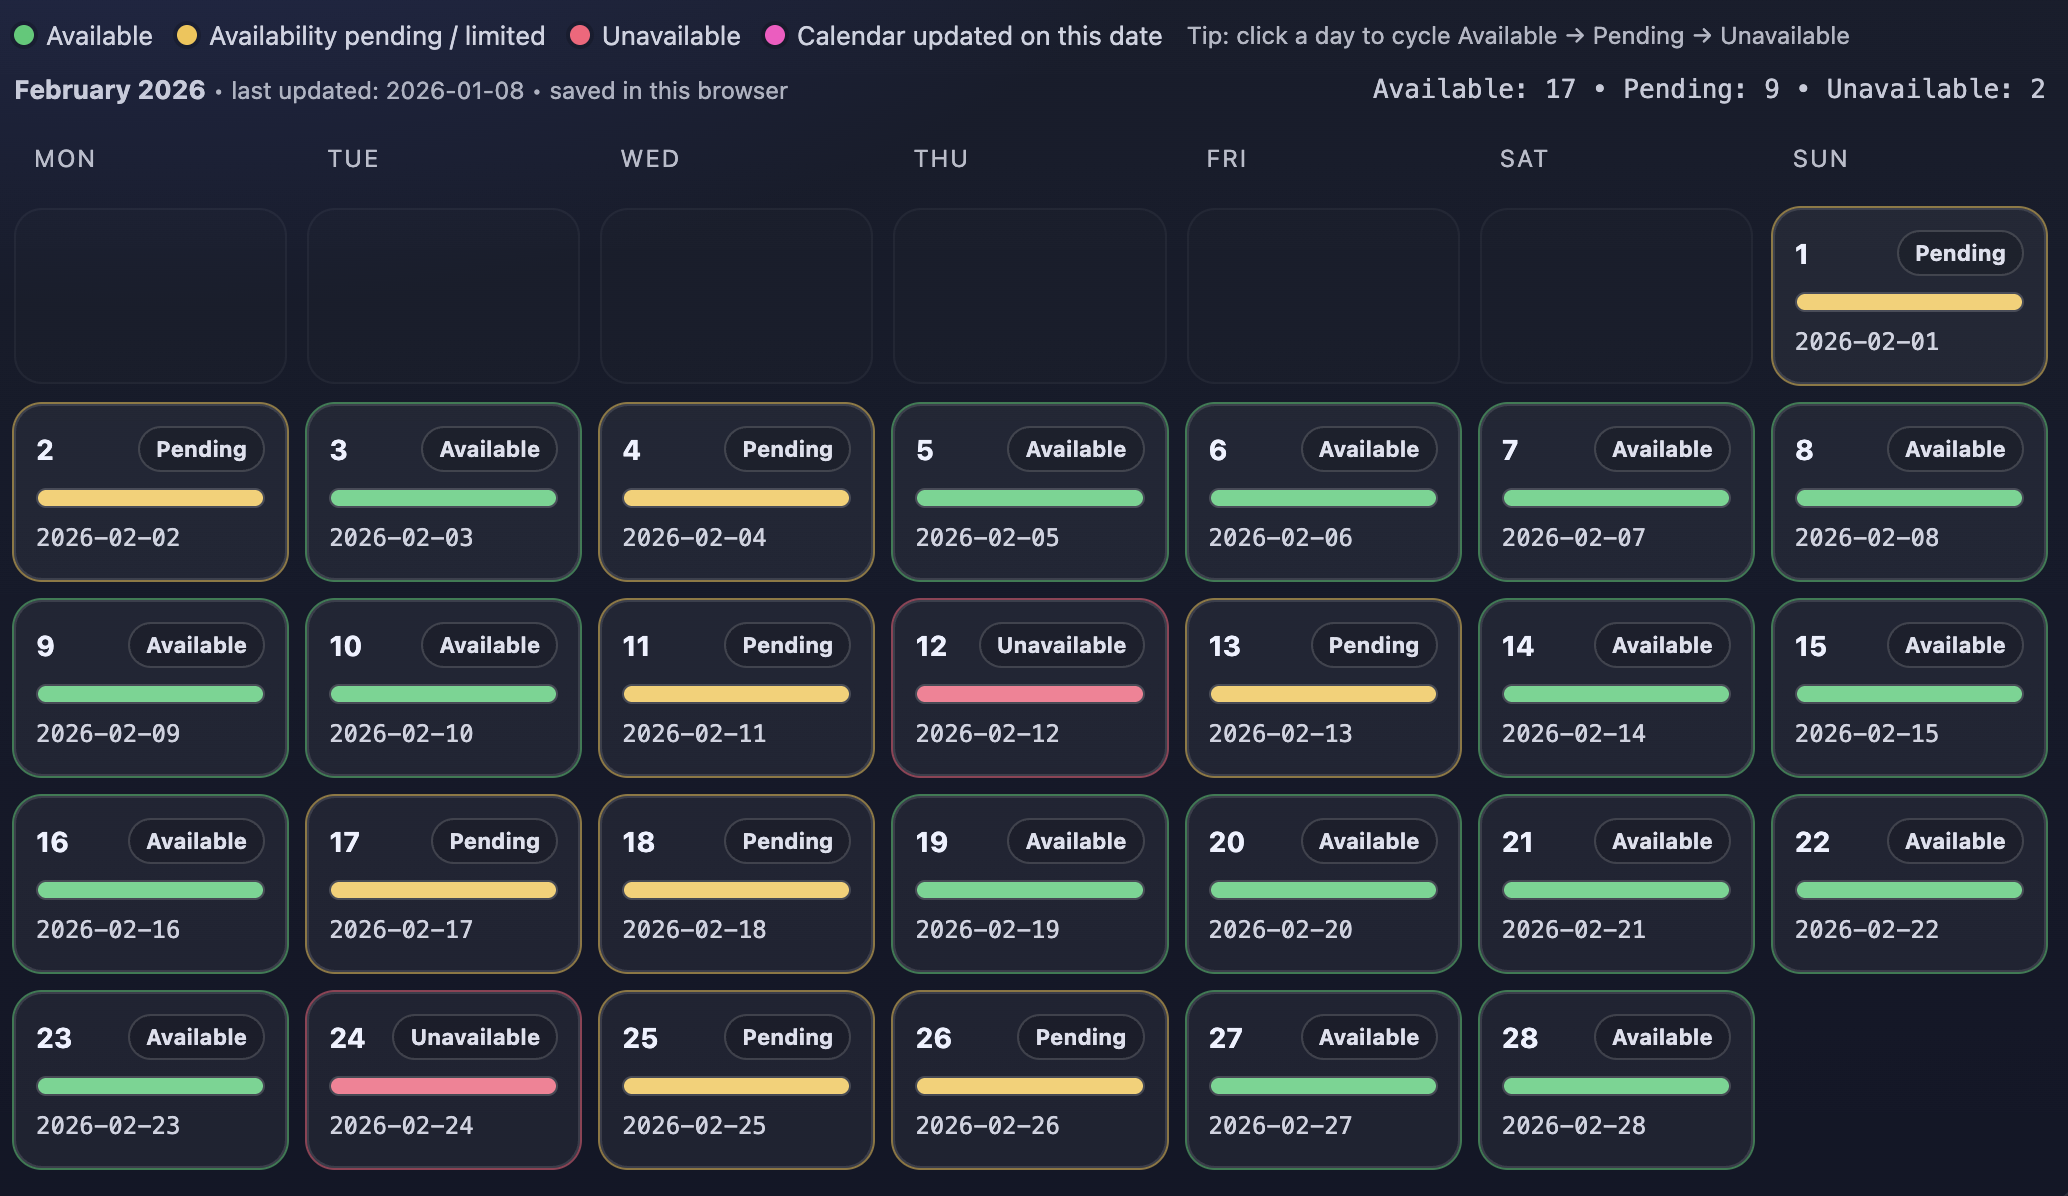
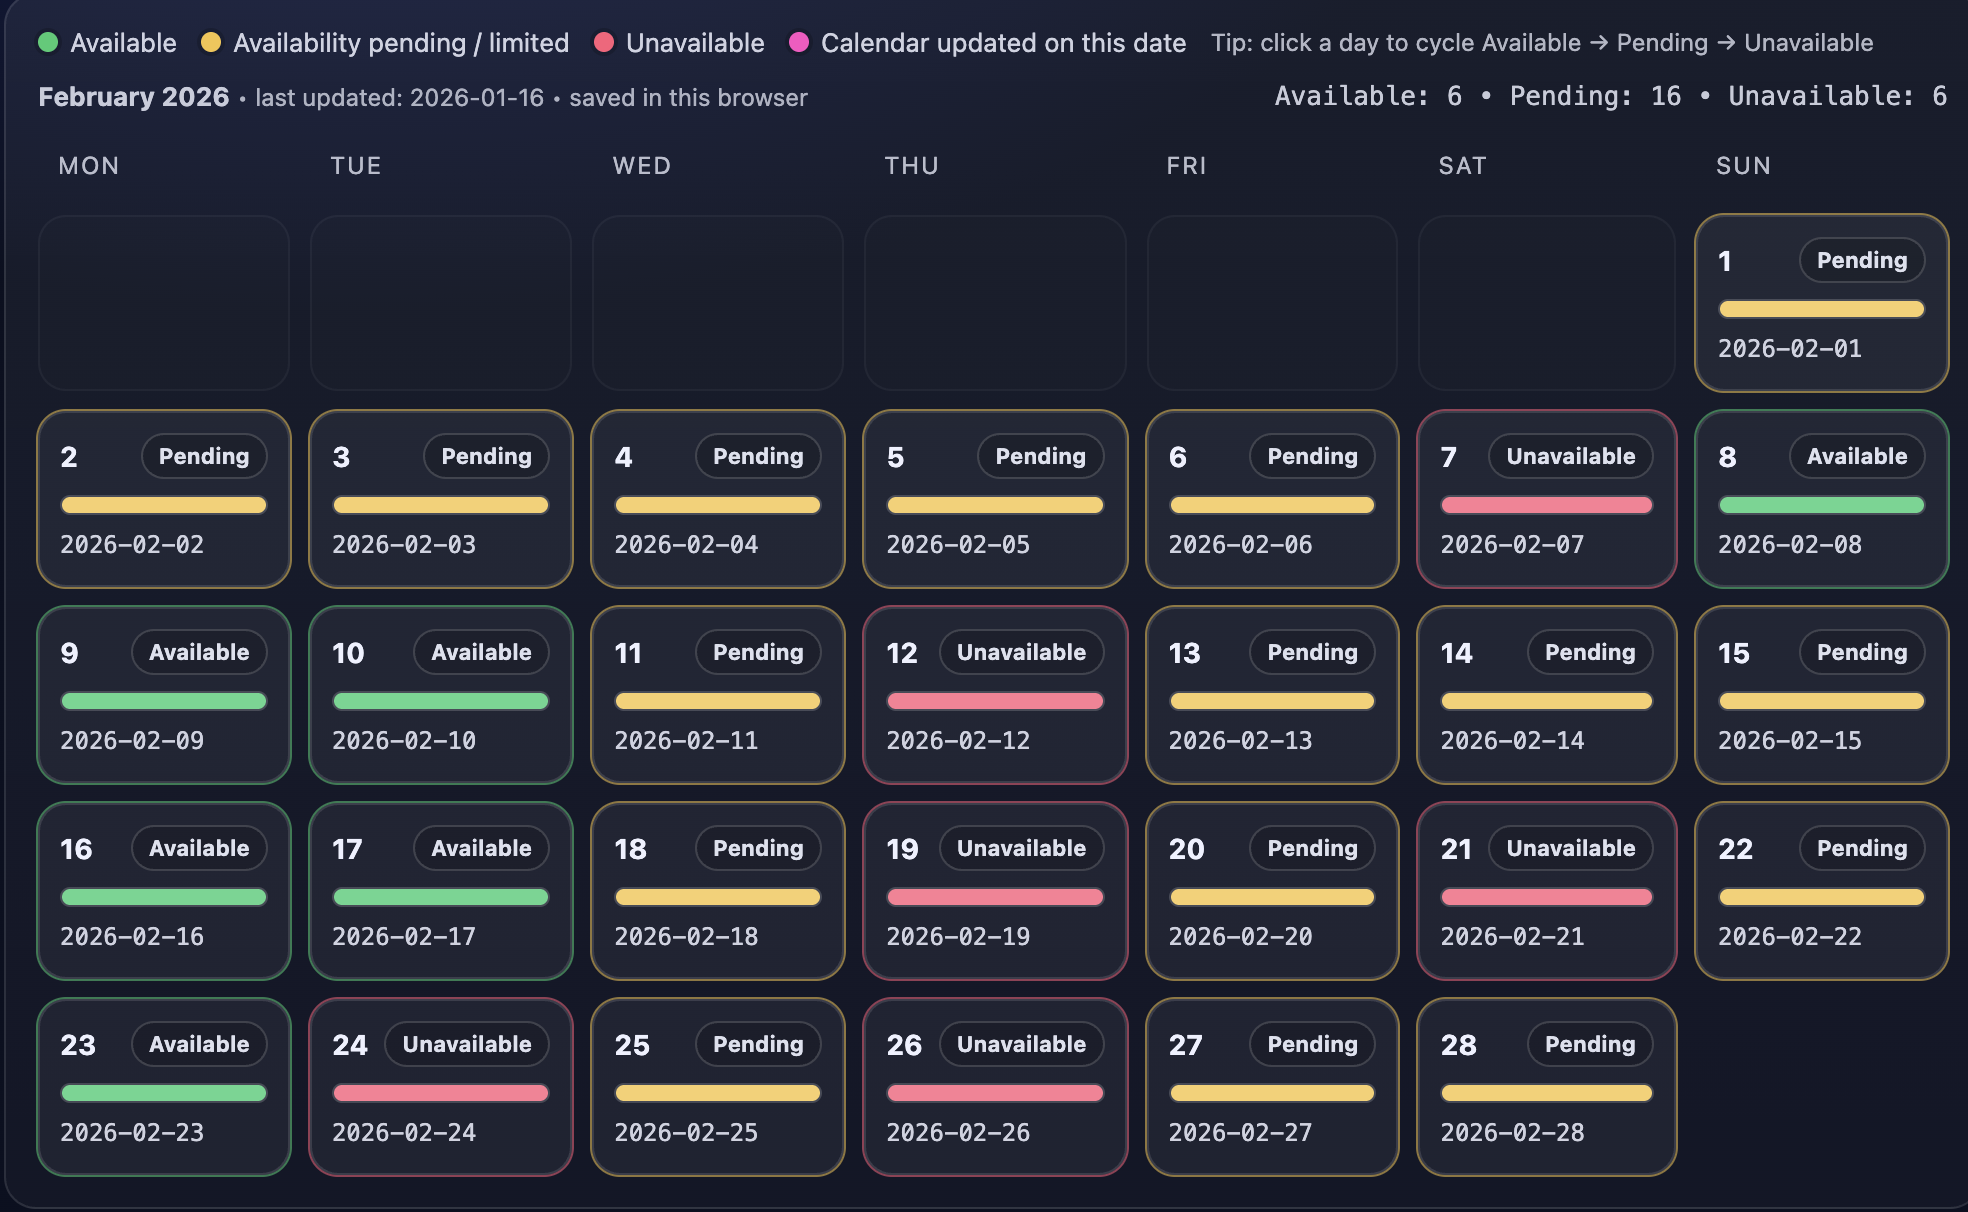
a

diff --git a/Calendar/index.html b/Calendar/index.html
@@ -5,23 +5,27 @@
 <h1>My Calendar</h1>
 
 <br> 
-<h1>General principle: Please respect my calendar. If you are a headhunter, please kindly refrain from contacting me during my red periods. </h1>
+<h2>General principle: Please respect my calendar. If you are a headhunter, please kindly refrain from contacting me during my red periods. </h2>
 <!-- <h2> Urgent update: 26-27 Jan cannot be used for professional purposes while being green (except otherwise agreed). </h2> -->
 
 <h2> 
 
+  <br>
+
+  2026 Jan: fully booked.
+<!-- 
 <a href="2026Jan.png" class="link2">
         <button class="pushable2">
       <span class="front2">
         2026 Jan (almost full) to early Feb
       </span></button>
-      </a> 
+      </a>  -->
 
 <br>
 <a href="2026Feb.png" class="link2">
         <button class="pushable2">
       <span class="front2">
-        2026 Feb (last updated 8th Jan 2026)
+        2026 Feb (last updated 16th Jan 2026)
       </span></button>
       </a> 
 
